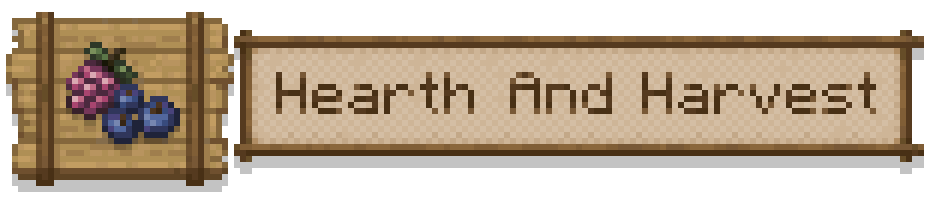
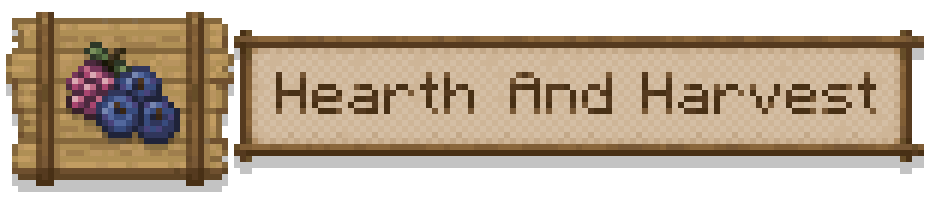
roasted

Changed region(s): [[0.0924, 0.3235, 0.2155, 0.7353]]

diff --git a/src/main/java/alabaster/hearthandharvest/common/item/RoastableItem.java b/src/main/java/alabaster/hearthandharvest/common/item/RoastableItem.java
@@ -1,0 +1,84 @@
+package alabaster.hearthandharvest.common.item;
+
+import alabaster.hearthandharvest.common.registry.HHModDataComponents;
+import net.minecraft.core.BlockPos;
+import net.minecraft.network.chat.Component;
+import net.minecraft.world.InteractionHand;
+import net.minecraft.world.entity.Entity;
+import net.minecraft.world.entity.player.Player;
+import net.minecraft.world.item.Item;
+import net.minecraft.world.item.ItemStack;
+import net.minecraft.world.item.TooltipFlag;
+import net.minecraft.world.level.Level;
+import net.minecraft.world.level.block.Blocks;
+
+import java.util.List;
+import java.util.function.Supplier;
+
+public class RoastableItem extends Item {
+    private final Supplier<Item> cookedItem;
+    private final int cookTimeToTransform;
+    private final Component tooltip;
+
+    public RoastableItem(Properties properties, Supplier<Item> cookedItem, int cookTimeToTransform, Component tooltip) {
+        super(properties.component(HHModDataComponents.COOK_TIME.get(), 0));
+        this.cookedItem = cookedItem;
+        this.cookTimeToTransform = cookTimeToTransform;
+        this.tooltip = tooltip;
+    }
+
+    @Override
+    public void inventoryTick(ItemStack stack, Level level, Entity entity, int slot, boolean isSelected) {
+        if (level.isClientSide || !(entity instanceof Player player)) return;
+
+        if (!isPlayerNearHeatSource(player, level)) return;
+
+        if (level.getGameTime() % 20 != 0) return; // once per second
+
+        int cookTime = stack.get(HHModDataComponents.COOK_TIME.get());
+        int newCookTime = cookTime + 1;
+        stack.update(HHModDataComponents.COOK_TIME.get(), 0, oldValue -> newCookTime);
+
+        if (cookTime >= cookTimeToTransform) {
+            ItemStack newStack = cookedItem.get().getDefaultInstance();
+            final int finalCookTime = cookTime;
+            newStack.update(HHModDataComponents.COOK_TIME.get(), 0, oldValue -> finalCookTime);
+            replaceItemInHand(player, stack, newStack);
+        }
+    }
+
+    private void replaceItemInHand(Player player, ItemStack oldStack, ItemStack newStack) {
+        if (player.getMainHandItem() == oldStack) {
+            player.setItemInHand(InteractionHand.MAIN_HAND, newStack);
+        } else if (player.getOffhandItem() == oldStack) {
+            player.setItemInHand(InteractionHand.OFF_HAND, newStack);
+        }
+    }
+
+    private static boolean isPlayerNearHeatSource(Player player, Level level) {
+        if (player.isOnFire()) return true;
+        BlockPos pos = player.blockPosition();
+        for (BlockPos nearbyPos : BlockPos.betweenClosed(pos.offset(-1, -1, -1), pos.offset(1, 1, 1))) {
+            if (level.getBlockState(nearbyPos).is(Blocks.CAMPFIRE) ||
+                    level.getBlockState(nearbyPos).is(Blocks.FIRE) ||
+                    level.getBlockState(nearbyPos).is(Blocks.SOUL_CAMPFIRE)) {
+                return true;
+            }
+        }
+        return false;
+    }
+
+    @Override
+    public boolean shouldCauseReequipAnimation(ItemStack oldStack, ItemStack newStack, boolean slotChanged) {
+        return slotChanged;
+    }
+
+    @Override
+    public void appendHoverText(ItemStack stack, TooltipContext context, List<Component> tooltip, TooltipFlag flag) {
+        int cookTime = stack.get(HHModDataComponents.COOK_TIME.get());
+        if (cookTime < cookTimeToTransform && tooltip != null) {
+            tooltip.add((Component) tooltip);
+        }
+        super.appendHoverText(stack, context, tooltip, flag);
+    }
+}

diff --git a/src/main/java/alabaster/hearthandharvest/common/registry/HHModItems.java b/src/main/java/alabaster/hearthandharvest/common/registry/HHModItems.java
@@ -5,7 +5,9 @@ import alabaster.hearthandharvest.common.HHFoodValues;
 import alabaster.hearthandharvest.common.item.*;
 import com.electronwill.nightconfig.core.concurrent.StampedConfig;
 import com.google.common.collect.Sets;
+import net.minecraft.ChatFormatting;
 import net.minecraft.core.registries.Registries;
+import net.minecraft.network.chat.Component;
 import net.minecraft.world.food.FoodProperties;
 import net.minecraft.world.item.*;
 import net.minecraft.world.level.block.Blocks;
@@ -356,9 +358,19 @@ public class HHModItems {
             () -> new Item(foodItem(HHFoodValues.ROASTED_PEANUTS)));
 
     public static final Supplier<Item> MARSHMALLOW_STICK = registerWithTab("marshmallow_stick",
-            () -> new MarshmallowStickItem(foodItem(HHFoodValues.MARSHMALLOW_STICK).stacksTo(1)));
+            () -> new RoastableItem(foodItem(HHFoodValues.MARSHMALLOW_STICK).stacksTo(1),
+                    HHModItems.ROASTED_MARSHMALLOW_STICK,
+                    5,
+                    Component.literal("Hold near a campfire to cook").withStyle(ChatFormatting.GRAY))
+    );
+
     public static final Supplier<Item> ROASTED_MARSHMALLOW_STICK = registerWithTab("roasted_marshmallow_stick",
-            () -> new MarshmallowStickItem(foodItem(HHFoodValues.ROASTED_MARSHMALLOW_STICK).stacksTo(1)));
+            () -> new RoastableItem(foodItem(HHFoodValues.ROASTED_MARSHMALLOW_STICK).stacksTo(1),
+                    HHModItems.CHARRED_MARSHMALLOW_STICK,
+                    5,
+                    Component.literal("Perfectly roasted!").withStyle(ChatFormatting.GOLD))
+    );
+
     public static final Supplier<Item> CHARRED_MARSHMALLOW_STICK = registerWithTab("charred_marshmallow_stick",
             () -> new MarshmallowStickItem(foodItem(HHFoodValues.CHARRED_MARSHMALLOW_STICK).stacksTo(1)));
 